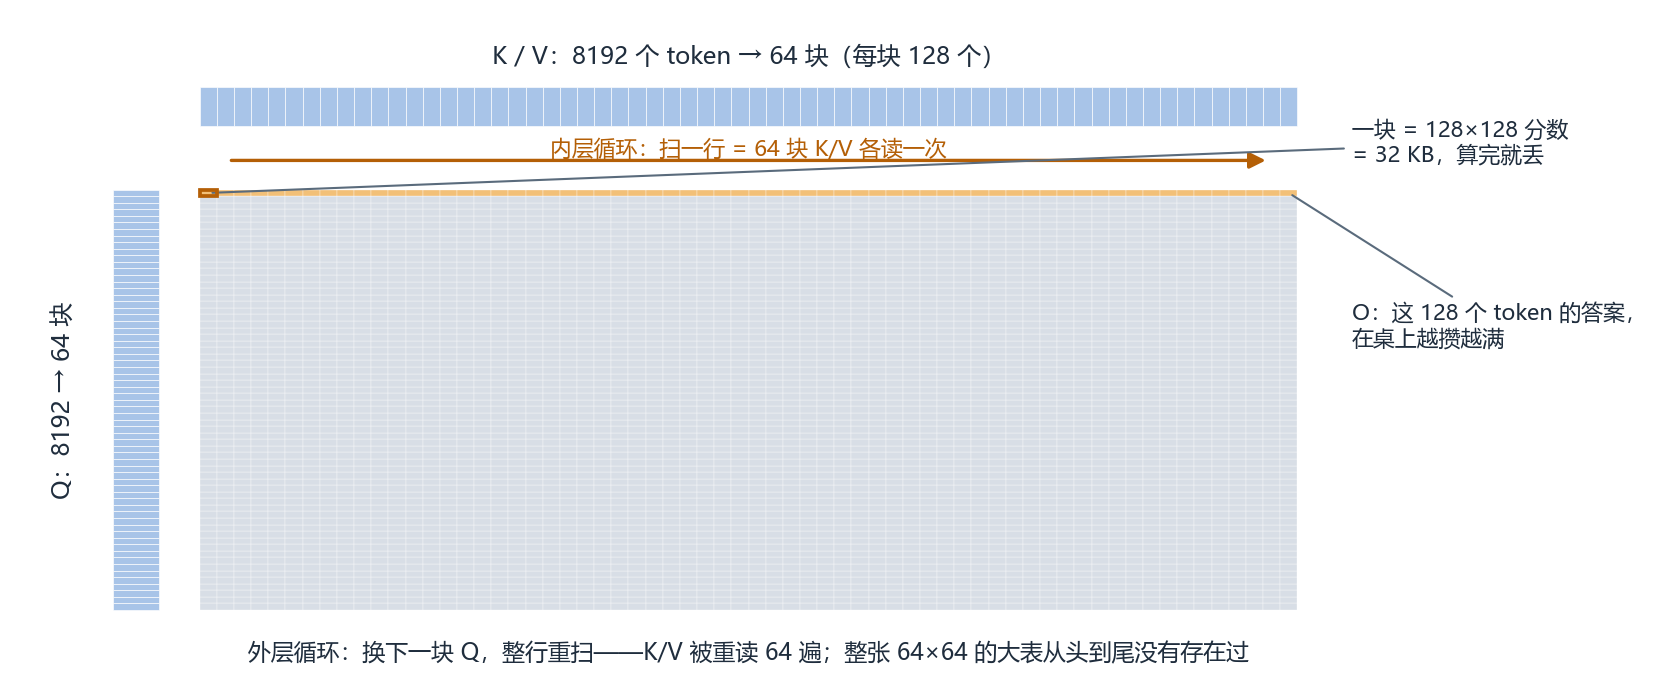
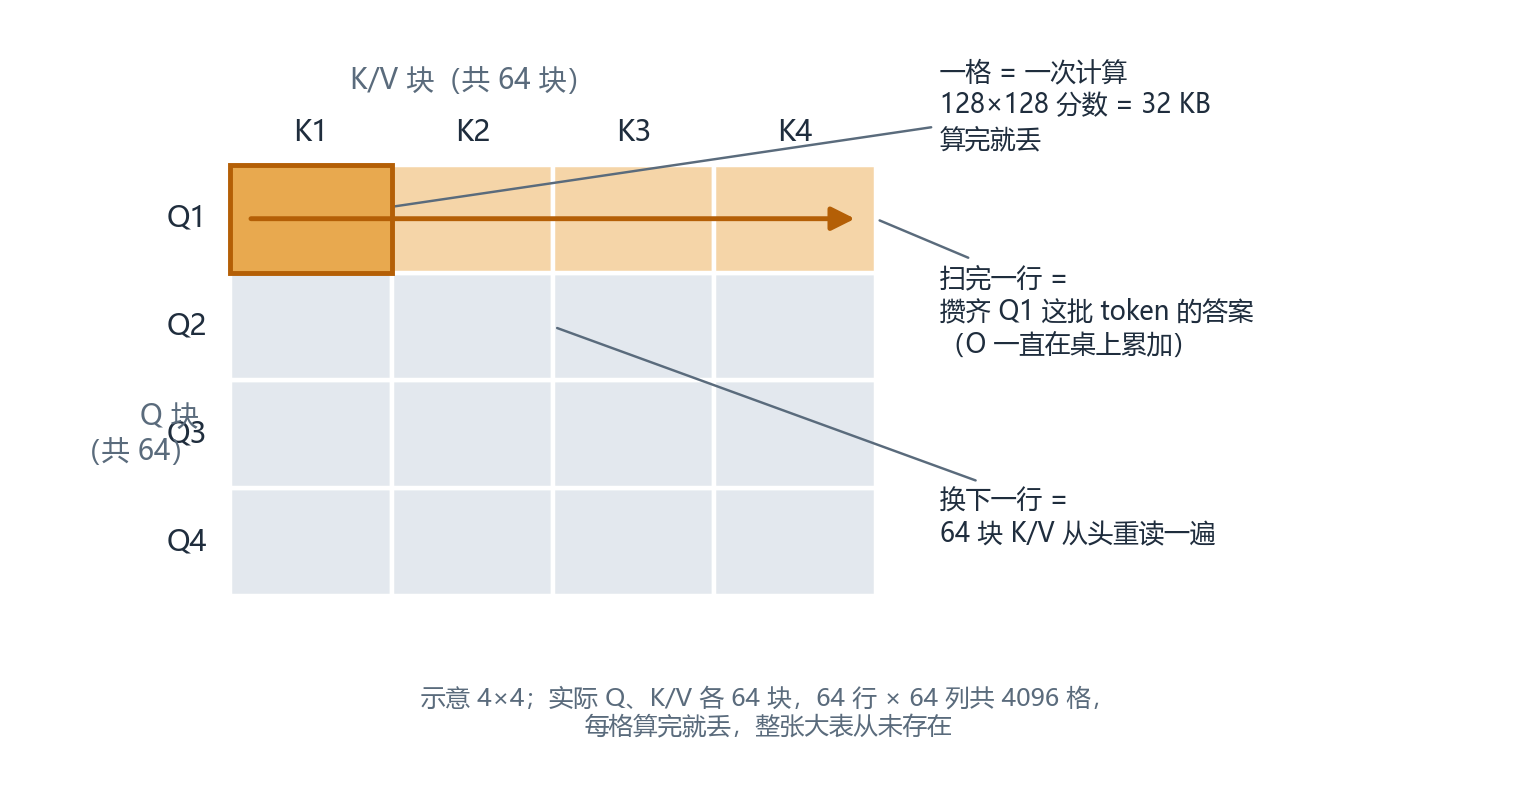
docs: 4.3.2 图文分工重做——图讲结构，文字补图外
- 图重画为 4×4 大格示意：行=Q块、列=K/V块、一格=一次计算(32KB算完即丢)、
  换行=K/V 重读；去掉 64×64 密网格与冗长引注
- 正文删去两层循环代码块，只留图无法表达的三件事：
  桌上五样东西与 164KB 约束、O 为何全程留桌、账单一句话
- softmax 缺位说明保留并指向 4.3.3

diff --git a/docs/ch04-KV缓存与注意力工程化.md b/docs/ch04-KV缓存与注意力工程化.md
@@ -178,33 +178,21 @@ S 和 P 都是一次性的——用完就扔，却各跑了一个来回。把全
 
 ### 4.3.2 分块：一次只算一小块
 
-上一节的病根，是那张 128 MiB 的打分表。FlashAttention 的解法说出来有点笨：**既然整张表放不下，那就从头到尾不造它——一小块一小块地算，算完一块丢一块。**
+上一节的病根，是那张 128 MiB 的打分表。FlashAttention 的解法说出来有点笨：**既然整张表放不下，那就从头到尾不造它——切成小块，算完一块丢一块。**
 
-具体这么干。8192 个 token 按 128 一份切开：Q、K、V 各切成 64 块。然后两层循环：
+8192 个 token 按 128 一份切，Q、K、V 各成 64 块。一次计算只碰「一块 Q × 一块 K/V」，产出一张 128×128 的小分数表——32 KB，桌上放得下，用完就丢。整张表就是 64 行 × 64 列：
 
-```
-外层：取第 1 块 Q（128 个 token 的提问）
-  内层：取第 1 块 K、第 1 块 V
-    ① 算分数：128 个提问 × 128 个被问的 → 一张 128×128 的小分数表（32 KB）
-    ② 加权求和：小分数表 × V 块 → 部分答案，累加进 O
-    丢掉小分数表；取第 2 块 K、V，再走 ①②
-  内层跑满 64 块，O 里攒齐这 128 个 token 的完整答案
-外层换下一块 Q，64 块 K/V 从头再陪跑一遍——一共 64 轮
-```
+![分块怎么走：行是 Q 块、列是 K/V 块、一格是一次计算；扫完一行攒齐一批答案，换行重读全部 K/V](./assets/ch04-fa-blocking.png)
 
-![分块的全貌：Q 与 K/V 各切成 64 块，内层扫完一行换外层；整张 64×64 的大表从头到尾没有存在过](./assets/ch04-fa-blocking.png)
+（图里没画 softmax：它没法塞进小块——分块只见局部分数，而 softmax 的分母要全部 8192 个数。下一节专门解决，这里先假装分数已归一。）
 
-（② 里怎么没有 softmax？它没法这么简单地塞进块里——分块只见过局部分数，而 softmax 的分母要用全部 8192 个数。这是下一节的主角，这里先假装每个分数已经归一好了。）
+图讲不了的，用文字补三件事：
 
-桌上始终摆着五样东西：Q 块、K 块、V 块、账本 O、那张临时的小分数表。每样 128×128 个数、每个数 2 字节，各占 32 KB，五样合计 **160 KB**——A100 的桌面是 164 KB，**刚好摆下**。
+**桌上摆什么。** 五样：Q 块、K 块、V 块、账本 O、临时小分数表，每样 32 KB，合计 **160 KB**——A100 的桌面 164 KB，刚好摆下。**为什么是 128** 也在这里：取 256，每样变 128 KB，五样 640 KB，摆不下；取更小，一次算的 Q 就少，K/V 要多读几遍。128 是「摆得下」的最大整齐尺寸。
 
-**为什么是 128？** 往大了取不行：取 256，每样变 128 KB，五样 640 KB，摆不下。往小了取亏：一次算的 Q 变少，K/V 要多读几遍。128 不是最优解，是「五样能同时摆下」的最大整齐尺寸。
+**O 为什么全程不回仓库。** 它是攒答案的账本：每块 K/V 的部分结果往上累加，加满 64 次，这批 token 的答案就齐了。
 
-**O 为什么从头到尾不回仓库？** 它是攒答案的账本：每块 K/V 的部分结果都往上加，加满 64 次，这批 token 的答案就齐了。账本一直摊在桌上，没必要来回搬。
-
-**K/V 为什么被搬了 64 遍？** 桌面只容得下一块 K、一块 V。第 1 块 Q 干活时，64 块 K/V 排队上来各干一次；轮到第 2 块 Q，它们早被挤下去了，只能重新搬上来。64 块 Q，就得重搬 64 轮。
-
-账单一句话：**K/V 白读 63 遍，换来那张 128 MiB 的大表从头到尾没有存在过。** 值不值，4.3.4 算。
+**账单。** K/V 白读 63 遍，换来那张 128 MiB 的大表从头到尾没有存在过。值不值，4.3.4 算。
 
 ### 4.3.3 在线 softmax：一边搬一边记账
 
